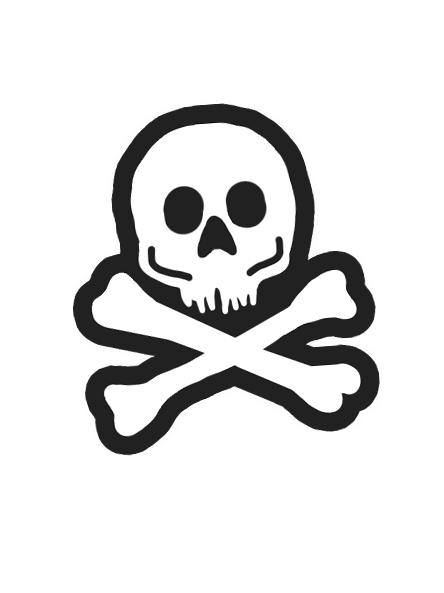
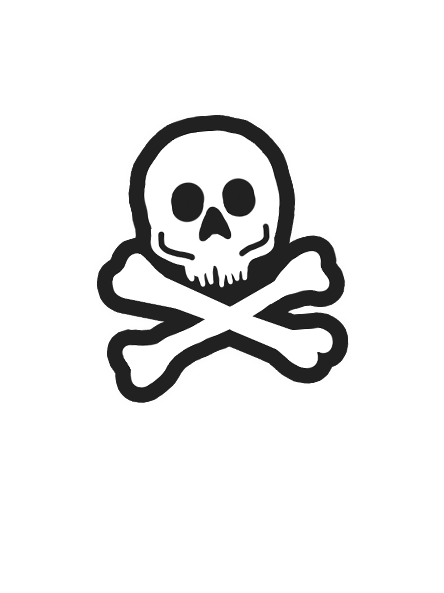
adjusted overlay sizing

Changed region(s): [[0.1464, 0.1518, 0.8784, 0.7892]]

diff --git a/packages/components/src/minion-interactions/WillDieOverlay.jsx b/packages/components/src/minion-interactions/WillDieOverlay.jsx
@@ -5,7 +5,7 @@ import { INTERACTIONS } from '@ccg/images';
 import { getMinionInteractionImage } from '@ccg/utils/src';
 
 export default function WillDieOverlay(props) {
-  const { activeState, willDieSrc } = props;
+  const { activeState, isAttacking, willDieSrc } = props;
   const [styles, set, stop] = useSpring(() => ({
     opacity: 0,
     pointerEvents: 'none',
@@ -20,10 +20,14 @@ export default function WillDieOverlay(props) {
     bool => {
       set({
         opacity: bool ? 1 : 0,
-        transform: bool ? 'scale(1)' : 'scale(0)'
+        transform: bool
+          ? isAttacking
+            ? 'scale(1.15)'
+            : 'scale(1)'
+          : 'scale(0)'
       });
     },
-    [set]
+    [isAttacking, set]
   );
 
   useEffect(() => {
@@ -41,7 +45,7 @@ export default function WillDieOverlay(props) {
         alt=""
         role="presentation"
         src={willDieSrc}
-        style={{ transform: 'scale(1)' }}
+        style={{ imageRendering: 'pixelated', transform: 'scale(1)' }}
       />
     </animated.div>
   );
@@ -49,9 +53,11 @@ export default function WillDieOverlay(props) {
 
 WillDieOverlay.propTypes = {
   activeState: PropTypes.bool,
+  isAttacking: PropTypes.bool,
   willDieSrc: PropTypes.string.isRequired
 };
 
 WillDieOverlay.defaultProps = {
-  activeState: false
+  activeState: false,
+  isAttacking: false
 };

diff --git a/packages/components/src/BoardSlot/index.jsx b/packages/components/src/BoardSlot/index.jsx
@@ -308,6 +308,7 @@ const BoardSlot = props => {
       {slotObject && (
         <WillDieOverlay
           activeState={willDie}
+          isAttacking={isAttacking}
           willDieSrc={
             board === PLAYER_BOARDS[1] ? willDieYourSrc : willDieTheirSrc
           }
